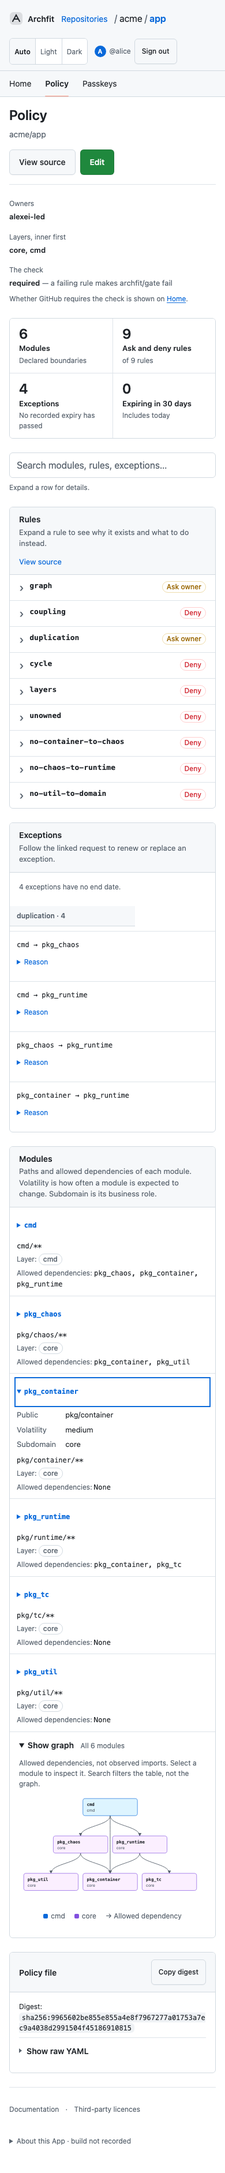
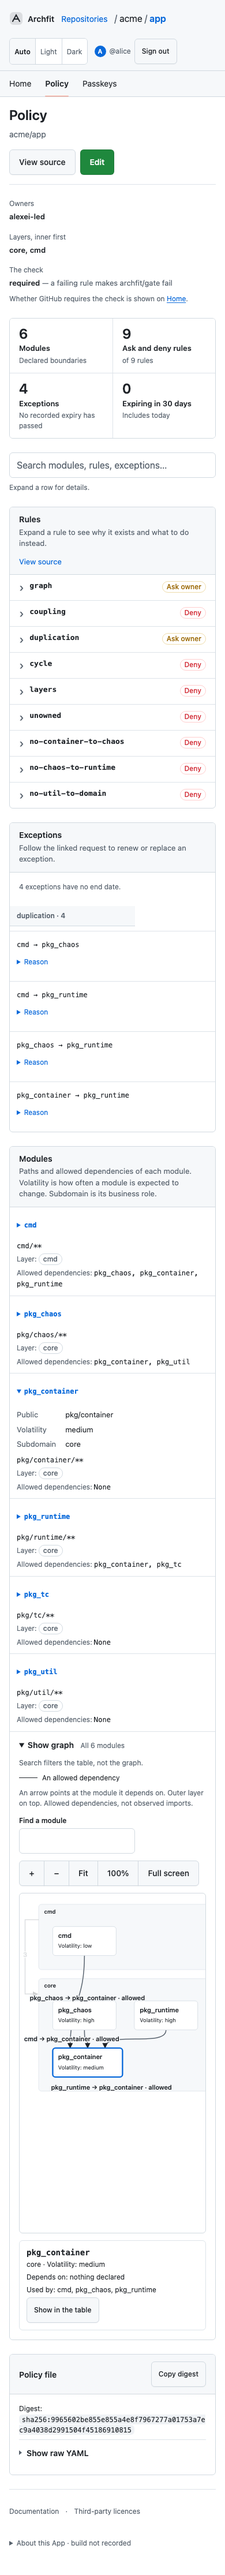
feat(web): draw the policy graph with the Home map's component
The policy graph is the same map: layer bands, full module names, one allowed
line per declared dependency, and a legend of allowed dependencies only. A
module in focus shows its dependencies and dependents below the graph, with a
button to open its table row. The graph loads only when its disclosure opens.

Also nudges focused-line labels sideways when a line has no free room above or
below, so crowded lines stay readable.

diff --git a/web/src/components/PolicyGraph.svelte b/web/src/components/PolicyGraph.svelte
@@ -1,66 +1,49 @@
 <script lang="ts">
   import type { Policy } from '../lib/api';
-  import { policyGraph } from '../lib/policy';
+  import { policyMap } from '../lib/policy';
 
   let { modules, layers, inspect }: {
     modules: Policy['modules'];
     layers: Policy['layers'];
     inspect: (index: number) => void;
   } = $props();
-  const id = $props.id();
-  const graph = $derived(policyGraph(modules, layers));
+
+  // The declared dependencies, drawn with the Home map's component.
+  const graph = $derived(policyMap(modules, layers));
+  let focused = $state('');
+  const index = $derived(modules.findIndex((m) => m.name === focused));
+  const current = $derived(index < 0 ? null : modules[index]);
+  const dependents = $derived(modules.filter((m) => current && m.depends_on.includes(current.name)).map((m) => m.name));
 </script>
 
-<div class="graph-scroll">
-  <svg viewBox="0 0 480 {graph.height}" role="group" aria-labelledby={id + '-title'}>
-    <title id={id + '-title'}>Allowed module dependencies</title>
-    <defs>
-      <marker id={id + '-arrow'} viewBox="0 0 8 8" refX="7" refY="4" markerWidth="6" markerHeight="6" orient="auto">
-        <path d="M0 0L8 4L0 8Z" class="arrow" />
-      </marker>
-    </defs>
-    {#each graph.links as link, i (i)}
-      <path d={link.path} class="dependency" marker-end={`url(#${id}-arrow)`}>
-        <title>{link.from} → {link.to}</title>
-      </path>
-    {/each}
-    {#each graph.nodes as node (node.module.name)}
-      <g transform="translate({node.x} {node.y})" data-layer={node.layer % 4}>
-        <a href={'#policy-module-' + node.index} aria-label={'Inspect ' + node.module.name}
-          onclick={(event) => { event.preventDefault(); inspect(node.index); }}>
-        <title>{node.module.name} · {node.module.layer || 'Layer not provided'}</title>
-        <rect width="140" height="44" rx="6" />
-        <text x="10" y="19" class="name">{node.module.name.length > 17 ? node.module.name.slice(0, 16) + '…' : node.module.name}</text>
-        <text x="10" y="34">{node.module.layer.length > 20 ? node.module.layer.slice(0, 19) + '…' : node.module.layer || 'Not provided'}</text>
-      </a>
-      </g>
-    {/each}
-  </svg>
-</div>
-<ul class="legend" aria-label="Graph legend">
-  {#each graph.layers as layer, i (layer)}
-    <li data-layer={i % 4}><span class="swatch" aria-hidden="true"></span>{layer || 'Layer not provided'}</li>
-  {/each}
-  <li>→ Allowed dependency</li>
-</ul>
+{#await import('./map/Diagram.svelte')}
+  <p role="status">Placing the modules…</p>
+{:then component}
+  <component.default
+    model={graph.model}
+    detailView="table"
+    kinds={['allowed']}
+    label="Allowed module dependencies"
+    onfocus={(name: string) => (focused = name)}
+  />
+{:catch}
+  <p class="flash error" role="alert">The graph could not load. The table below lists every dependency.</p>
+{/await}
+{#if current}
+  <section class="graph-detail" aria-label="Selected module" aria-live="polite">
+    <h3>{current.name}</h3>
+    <p class="small">{current.layer || 'Layer not provided'} · Volatility: {current.volatility || 'Not provided'}</p>
+    <p class="small">Depends on: {current.depends_on.length ? current.depends_on.join(', ') : 'nothing declared'}</p>
+    <p class="small">Used by: {dependents.length ? dependents.join(', ') : 'no module in this policy'}</p>
+    <button class="btn sm" type="button" onclick={() => inspect(index)}>Show in the table</button>
+  </section>
+{/if}
 {#if graph.missing}
   <p class="small muted">{graph.missing} {graph.missing === 1 ? 'dependency target is' : 'dependency targets are'} not in the module list. See the table for all declared dependencies.</p>
 {/if}
 
 <style>
-  .graph-scroll { max-height: 420px; overflow-y: auto; }
-  svg { display: block; width: 100%; max-width: 480px; margin: 0 auto; overflow: visible; }
-  .dependency { fill: none; stroke: var(--fg-muted); stroke-width: 1.4; }
-  .arrow { fill: var(--fg-muted); }
-  [data-layer="0"] { --layer: var(--accent); --layer-bg: var(--accent-subtle); }
-  [data-layer="1"] { --layer: var(--done); --layer-bg: var(--done-subtle); }
-  [data-layer="2"] { --layer: var(--success); --layer-bg: var(--success-subtle); }
-  [data-layer="3"] { --layer: var(--attention); --layer-bg: var(--attention-subtle); }
-  rect { fill: var(--layer-bg); stroke: var(--layer); stroke-width: 1; }
-  a:hover rect, a:focus-visible rect { fill: var(--layer-bg); stroke-width: 2; }
-  text { font: 10px var(--font); fill: var(--fg-muted); }
-  text.name { font: 600 11px var(--mono); fill: var(--fg); }
-  .legend { display: flex; flex-wrap: wrap; justify-content: center; gap: 8px 16px; list-style: none; margin: 12px 0; padding: 0; font-size: 12px; color: var(--fg-muted); }
-  .legend li { max-width: 100%; overflow-wrap: anywhere; display: inline-flex; align-items: center; gap: 5px; }
-  .swatch { width: 8px; height: 8px; background: var(--layer); border-radius: 2px; }
+  .graph-detail { margin-top: 12px; padding: 12px; border: 1px solid var(--border-muted); border-radius: var(--radius); }
+  .graph-detail h3 { margin: 0 0 4px; font: 600 14px var(--mono); }
+  .graph-detail p { margin: 4px 0; overflow-wrap: anywhere; }
 </style>

diff --git a/web/src/lib/policy.ts b/web/src/lib/policy.ts
@@ -1,6 +1,6 @@
+import type { MapLine, MapModel } from '../components/map/model';
 import type { ApiError, Policy } from './api';
 
-type PolicyModule = Policy['modules'][number];
 type Exception = Policy['exceptions'][number];
 
 // policyMissing is the server's sentence for a readable repository with no .archfit.yaml on its default branch.
@@ -127,65 +127,19 @@ export function filterPolicy(policy: Policy, query: string) {
   };
 }
 
-export function policyGraph(modules: PolicyModule[], layers: string[] | null) {
-  // Fixed three-column rows keep labels readable without a layout engine. The table remains authoritative.
-  const order = [...new Set([...[...(layers ?? [])].reverse(), ...modules.map((m) => m.layer)])].filter((name) => modules.some((m) => m.layer === name));
-  const nodes: { module: PolicyModule; index: number; x: number; y: number; layer: number }[] = [];
-  let row = 0;
-  for (const [layer, name] of order.entries()) {
-    const group = modules.flatMap((module, index) => (module.layer === name ? [{ module, index }] : []));
-    const remaining = new Map(group.map((entry) => [entry.module.name, entry]));
-    while (remaining.size) {
-      const incoming = new Set([...remaining.values()].flatMap(({ module }) => module.depends_on));
-      const ready = [...remaining.values()].filter(({ module }) => !incoming.has(module.name));
-      // A cycle has no first module. Keep all remaining nodes visible rather than inventing an order.
-      const batch = ready.length ? ready : [...remaining.values()];
-      const parentCenter = (name: string) => {
-        const parents = nodes.filter((node) => node.module.depends_on.includes(name));
-        return parents.length ? parents.reduce((sum, node) => sum + node.x, 0) / parents.length : 240;
-      };
-      batch.sort((a, b) => parentCenter(a.module.name) - parentCenter(b.module.name));
-      for (const [i, entry] of batch.entries()) {
-        const columns = Math.min(3, batch.length - Math.floor(i / 3) * 3);
-        nodes.push({
-          ...entry,
-          x: (480 - columns * 152) / 2 + (i % 3) * 152,
-          y: 24 + (row + Math.floor(i / 3)) * 96,
-          layer,
-        });
-        remaining.delete(entry.module.name);
-      }
-      row += Math.ceil(batch.length / 3);
-    }
-  }
-  const byName = new Map(nodes.map((node) => [node.module.name, node]));
-  const links: { from: string; to: string; path: string }[] = [];
-  let missing = 0;
-  for (const source of nodes) {
-    for (const name of source.module.depends_on) {
-      const target = byName.get(name);
-      if (!target) {
-        missing++;
-        continue;
-      }
-      const sx = source.x + 70;
-      const tx = target.x + 70;
-      const sameRow = source.y === target.y;
-      const sy = source.y + (source.y <= target.y ? 44 : 0);
-      const ty = target.y + (source.y >= target.y ? 44 : 0);
-      const bend = sameRow ? sy + 38 : (sy + ty) / 2;
-      const path =
-        source === target
-          ? `M${sx - 20},${sy} C${sx - 45},${sy + 40} ${sx + 45},${sy + 40} ${sx + 20},${sy}`
-          : `M${sx},${sy} C${sx},${bend} ${tx},${bend} ${tx},${ty}`;
-      links.push({ from: source.module.name, to: name, path });
-    }
-  }
+// The policy's declared dependencies as the Home map's model: one allowed line per dependency whose target is in the
+// module list. Layers are outer-first there; the policy lists them inner-first. Missing targets are counted, not drawn.
+export function policyMap(modules: Policy['modules'], layers: string[] | null): { model: MapModel; missing: number } {
+  const names = new Set(modules.map((m) => m.name));
+  const lines = modules.flatMap((m) =>
+    m.depends_on.filter((to) => names.has(to)).map((to): MapLine => ({ kind: 'allowed', from: m.name, to })),
+  );
   return {
-    nodes,
-    links,
-    missing,
-    height: Math.max(120, row * 96 + 8),
-    layers: order,
+    model: {
+      layers: [...(layers ?? [])].reverse(),
+      modules: modules.map((m) => ({ name: m.name, layer: m.layer, volatility: m.volatility })),
+      lines,
+    },
+    missing: modules.reduce((n, m) => n + m.depends_on.filter((to) => !names.has(to)).length, 0),
   };
 }

diff --git a/web/src/lib/policy.test.ts b/web/src/lib/policy.test.ts
@@ -6,7 +6,7 @@ import {
   groupExceptions,
   isPolicyMissing,
   policyCounts,
-  policyGraph,
+  policyMap,
   policyRules,
   ruleMode,
 } from './policy';
@@ -185,39 +185,25 @@ describe('policy search', () => {
   });
 });
 
-describe('secondary module graph', () => {
-  it('draws declared dependencies, counts missing targets, and preserves the input', () => {
+describe('policy map', () => {
+  it('draws each declared dependency as an allowed line, counts missing targets, and keeps the input', () => {
     const modules = [module('app', 'entry', ['util', 'absent']), module('util')];
-    const graph = policyGraph(modules, ['core', 'entry']);
-    expect(graph.links.map(({ from, to }) => [from, to])).toEqual([['app', 'util']]);
-    expect(graph.missing).toBe(1);
-    expect(graph.nodes.map(({ module }) => module.name)).toEqual(['app', 'util']);
-    expect(graph.nodes[0]?.y).toBeLessThan(graph.nodes[1]?.y ?? 0);
+    const { model, missing } = policyMap(modules, ['core', 'entry']);
+    expect(model.lines).toEqual([{ kind: 'allowed', from: 'app', to: 'util' }]);
+    expect(missing).toBe(1);
+    expect(model.modules.map((m) => m.name)).toEqual(['app', 'util']);
     expect(modules.map((m) => m.depends_on)).toEqual([['util', 'absent'], []]);
   });
 
-  it('places same-layer consumers above their dependencies', () => {
-    const graph = policyGraph([module('a', 'core', ['b']), module('b', 'core', ['c']), module('c')], ['core']);
-    const y = new Map(graph.nodes.map((node) => [node.module.name, node.y]));
-    expect(y.get('a')).toBeLessThan(y.get('b') ?? 0);
-    expect(y.get('b')).toBeLessThan(y.get('c') ?? 0);
+  it('lists layers outer-first, the reverse of the policy file', () => {
+    const { model } = policyMap([module('a', 'core'), module('b', 'entry')], ['core', 'entry']);
+    expect(model.layers).toEqual(['entry', 'core']);
   });
 
-  it('supports cycles, self-dependencies and undeclared layers without recursion', () => {
-    const graph = policyGraph([module('a', '', ['a', 'b']), module('b', 'other', ['a'])], null);
-    expect(graph.links).toHaveLength(3);
-    expect(graph.links.every((link) => !link.path.includes('NaN'))).toBe(true);
-    expect(graph.layers).toEqual(['', 'other']);
-  });
-
-  it('wraps large layers in three-column rows and handles an empty policy', () => {
-    const graph = policyGraph(
-      Array.from({ length: 10 }, (_, i) => module(String(i))),
-      ['core'],
-    );
-    expect(new Set(graph.nodes.map((n) => `${n.x},${n.y}`)).size).toBe(10);
-    expect(graph.nodes.every((n) => n.x >= 0 && n.x + 140 <= 480)).toBe(true);
-    expect(policyGraph([], null)).toMatchObject({ nodes: [], links: [], missing: 0 });
+  it('keeps a self-dependency and a cycle as lines, and an empty policy as nothing', () => {
+    const cyclic = policyMap([module('a', '', ['a', 'b']), module('b', 'other', ['a'])], null);
+    expect(cyclic.model.lines).toHaveLength(3);
+    expect(policyMap([], null)).toEqual({ model: { layers: [], modules: [], lines: [] }, missing: 0 });
   });
 });
 

diff --git a/web/src/components/map/Diagram.svelte b/web/src/components/map/Diagram.svelte
@@ -1,11 +1,19 @@
 <script lang="ts">
   import { onMount } from 'svelte';
   import { layoutMap, type MapLayout, type MapNode } from './layout';
-  import { focusLabel, legendKinds, legendWords, mapCaption, mapLines, type MapModel } from './model';
+  import { focusLabel, legendKinds, legendWords, mapCaption, mapLines, type LineKind, type MapModel } from './model';
   import { routeLines } from './routes';
   import { centerOn, fitView, panBy, viewBox, visible, zoomAt, type View } from './viewport';
 
-  let { model, detailView = 'list' }: { model: MapModel; detailView?: 'list' | 'matrix' } = $props();
+  // `kinds` is the legend: the Home map shows all five line kinds; the policy graph shows only allowed dependencies.
+  // `onfocus` reports the module in focus (or '' when none), so a page can show its details in place.
+  let { model, detailView = 'list', kinds = legendKinds, label = 'Modules by layer and their dependencies', onfocus }: {
+    model: MapModel;
+    detailView?: 'list' | 'matrix' | 'table';
+    kinds?: LineKind[];
+    label?: string;
+    onfocus?: (name: string) => void;
+  } = $props();
   const id = $props.id();
   const STEP = 80;
   const ZOOM_STEP = 1.25;
@@ -48,11 +56,15 @@
         (p) => { if (!controller.signal.aborted) placed = p; },
         () => { if (!controller.signal.aborted) failure = detailView === 'matrix'
           ? 'The map layout worker could not place the modules. Select Matrix for relationship details.'
-          : 'The map layout worker could not place the modules. The map is available as a list above.'; },
+          : detailView === 'table'
+            ? 'The graph could not place the modules. The table below lists every dependency.'
+            : 'The map layout worker could not place the modules. The map is available as a list above.'; },
       );
     }
     return () => controller.abort();
   });
+
+  $effect(() => { onfocus?.(focused); });
 
   // Open readable: the first time the chart and the viewport both have a size.
   $effect(() => {
@@ -216,7 +228,7 @@
   <div class="map-root" bind:this={root}>
     {#if placed}
       <ul class="map-legend" aria-label="Map legend">
-        {#each legendKinds as kind (kind)}
+        {#each kinds as kind (kind)}
           <li><span class={'sample ' + kind} aria-hidden="true"></span>{legendWords[kind]}</li>
         {/each}
       </ul>
@@ -259,7 +271,7 @@
         <p role="status">Placing the modules…</p>
       {:else}
         <svg viewBox={box} role="group" aria-labelledby={id + '-title'} data-focus={focused || undefined}>
-          <title id={id + '-title'}>Modules by layer and their dependencies</title>
+          <title id={id + '-title'}>{label}</title>
           <defs>
             <marker id={id + '-arrow'} viewBox="0 0 10 10" refX="9" refY="5" markerUnits="userSpaceOnUse" markerWidth="12" markerHeight="12" orient="auto-start-reverse">
               <path d="M 0 0 L 10 5 L 0 10 z" fill="context-stroke" />

diff --git a/web/src/components/map/routes.ts b/web/src/components/map/routes.ts
@@ -65,15 +65,22 @@ export function routeLines(nodes: MapNode[], lines: MapLine[], focused: string, 
     const x = Math.min(Math.max(wanted, half + 4), Math.max(half + 4, area.width - half - 4));
     // Where nothing is free, the position that covers the least is used, and it is reserved like any other.
     let best = { at: y, hits: Infinity };
-    for (let n = 0; n < 200 && best.hits > 0; n++) {
-      const dy = (n % 2 ? 1 : -1) * Math.ceil(n / 2) * LINE;
+    // Candidates step up and down, and sideways along the line, so a crowded line finds room near its own path.
+    let bestX = x;
+    for (let n = 0; n < 400 && best.hits > 0; n++) {
+      const dy = (n % 2 ? 1 : -1) * Math.ceil((n >> 2) / 2) * LINE;
+      const dx = ((n >> 1) % 2 ? 1 : -1) * Math.ceil(((n >> 2) + 1) / 2) * 36;
+      const cx = Math.min(Math.max(x + dx, half + 4), Math.max(half + 4, area.width - half - 4));
       const at = Math.min(Math.max(y + dy, LINE + 2), area.height - 4);
-      const box = { x0: x - half, x1: x + half, y0: at - LINE, y1: at };
+      const box = { x0: cx - half, x1: cx + half, y0: at - LINE, y1: at };
       const hits = taken.filter((t) => box.x0 < t.x1 && t.x0 < box.x1 && box.y0 < t.y1 && t.y0 < box.y1).length;
-      if (hits < best.hits) best = { at, hits };
+      if (hits < best.hits) {
+        best = { at, hits };
+        bestX = cx;
+      }
     }
-    taken.push({ x0: x - half, x1: x + half, y0: best.at - LINE, y1: best.at });
-    return [x, best.at];
+    taken.push({ x0: bestX - half, x1: bestX + half, y0: best.at - LINE, y1: best.at });
+    return [bestX, best.at];
   };
   return mine.flatMap((line): Route[] => {
     const from = byName.get(line.from);

diff --git a/web/src/components/PolicyRead.svelte b/web/src/components/PolicyRead.svelte
@@ -13,6 +13,8 @@
   // Exceptions are grouped by rule and shown a page at a time. A column is drawn only when some row has its fact.
   const previewRows = 20;
   let showAll = $state(false);
+  // The graph is built only when its disclosure is open: closed <details> content is still in the DOM.
+  let graphOpen = $state(false);
   const groups = $derived(groupExceptions(filtered.exceptions));
   // Every rule keeps its header and count; the row budget is spent in order, so a rule past it shows no rows.
   const view = $derived.by(() => {
@@ -186,11 +188,13 @@
     </table>
   {:else}<p class="box-body muted">{query.trim() ? 'No modules match this search.' : 'No modules.'}</p>{/if}
   {#if policy.modules.length}
-    <details class="graph-disclosure">
+    <details class="graph-disclosure" ontoggle={(event) => (graphOpen = event.currentTarget.open)}>
       <summary>Show graph <span class="small muted">All {policy.modules.length} modules</span></summary>
       <div class="graph-body">
-        <p class="small muted">Allowed dependencies, not observed imports. Select a module to inspect it. Search filters the table, not the graph.</p>
-        <PolicyGraph modules={policy.modules} layers={policy.layers} inspect={inspectModule} />
+        <p class="small muted">Search filters the table, not the graph.</p>
+        {#if graphOpen}
+          <PolicyGraph modules={policy.modules} layers={policy.layers} inspect={inspectModule} />
+        {/if}
       </div>
     </details>
   {/if}

diff --git a/web/e2e/policy-reading.spec.ts b/web/e2e/policy-reading.spec.ts
@@ -93,11 +93,13 @@ test('policy reading: graph is secondary, uses declared dependencies and selects
     });
   }
   await page.getByText('Show graph', { exact: false }).click();
-  await expect(graph.getByRole('link')).toHaveCount(6);
-  await expect(graph.locator('path.dependency')).toHaveCount(7);
+  await expect(graph.locator('.map-node')).toHaveCount(6);
   await page.getByRole('searchbox').fill('no-such-module');
-  await graph.getByRole('link', { name: 'Inspect pkg_container', exact: true }).focus();
-  await page.keyboard.press('Enter');
+  await graph.locator('[data-module="pkg_container"]').click();
+  const panel = page.getByRole('region', { name: 'Selected module' });
+  await expect(panel).toContainText('Depends on:');
+  await expect(panel).toContainText('Used by:');
+  await panel.getByRole('button', { name: 'Show in the table', exact: true }).click();
   const detail = page.locator('#policy-module-2');
   await expect(detail).toHaveAttribute('open', '');
   await expect(detail.locator('summary')).toBeFocused();

diff --git a/docs/user-guide.md b/docs/user-guide.md
@@ -131,9 +131,11 @@ date and show the remaining days capped at 30, not exception age.
 Request links appear only when the response supplies a safe destination.
 
 The module table follows the rules and exceptions. Expand a module for public paths, volatility, and subdomain.
-**Show graph** is closed by default at every width. It draws allowed dependencies, not measured imports, and keeps the
-whole policy visible during search. Select a node to clear search and open that module's details. Large maps scroll
-vertically; dependency targets missing from the module list are reported, not invented.
+**Show graph** is closed by default at every width, and its layout worker loads only when it opens. It uses the same
+map as Home: module names are shown in full, layers are bands, and it draws allowed dependencies, not measured
+imports. Select a module to see what it depends on and what depends on it, below the graph; **Show in the table**
+opens its details in the table. Search filters the table, not the graph. Dependency targets missing from the module
+list are reported, not invented.
 
 **View source** opens **Show raw YAML**. **Copy digest** copies the complete digest; clipboard refusal leaves the value
 selectable. **Edit** appears only when change control is available. The existing edit and passkey flow is unchanged.
